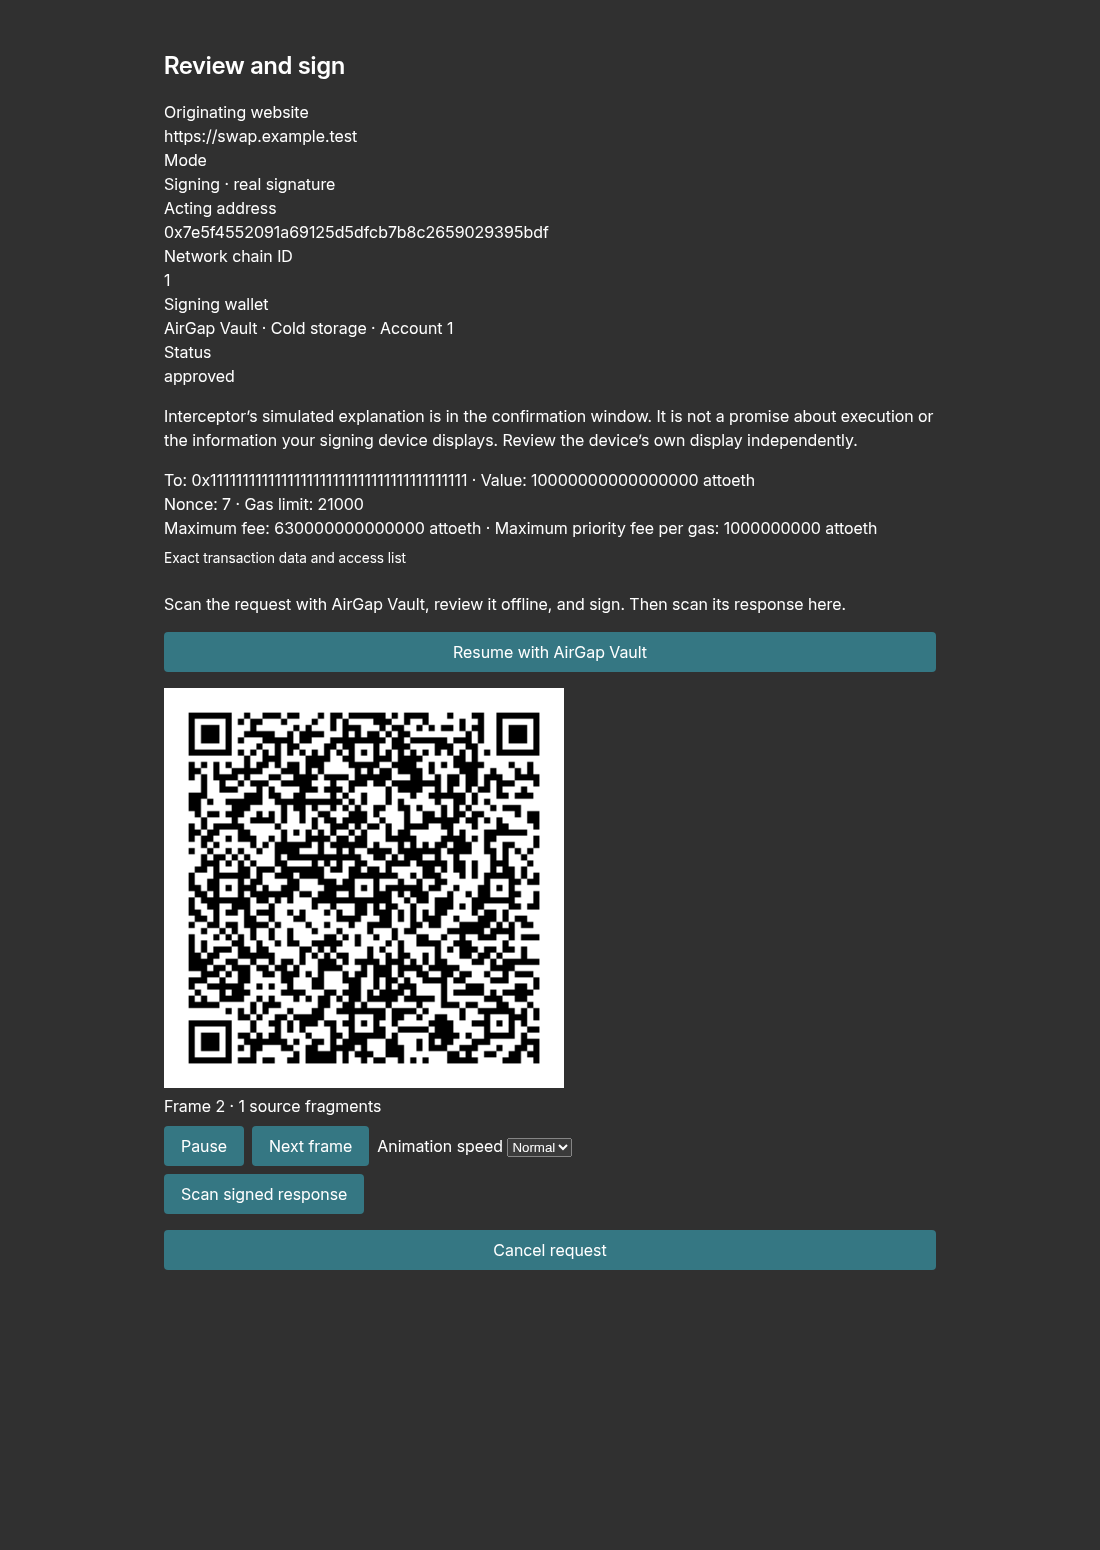
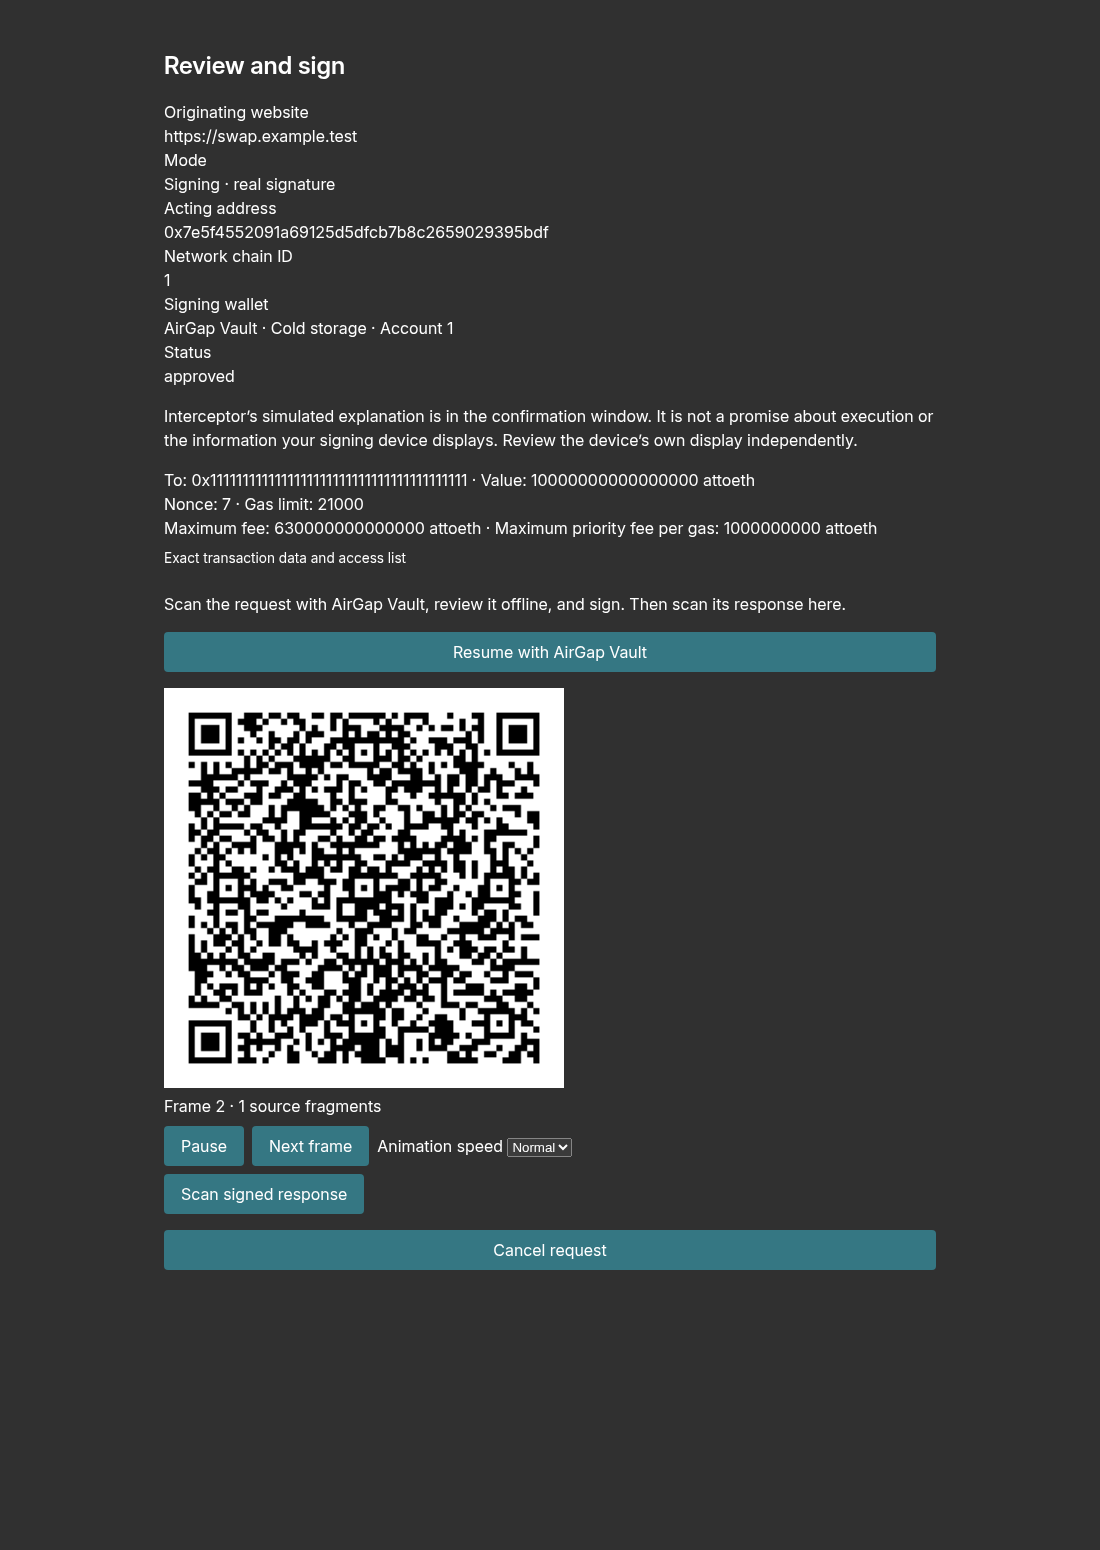
Distinguish recovered message signatures from transactions

Changed region(s): [[0.1545, 0.4645, 0.4018, 0.6813], [0.3709, 0.6194, 0.4018, 0.6503], [0.3709, 0.5574, 0.4018, 0.5884]]

diff --git a/app/ts/directSigning.tsx b/app/ts/directSigning.tsx
@@ -43,7 +43,12 @@ function DirectSigningPage() {
 				const transaction = parseTransaction(ensureHex(next.input.data))
 				setNonce(String(transaction.nonce)); setGas(String(transaction.gas)); setMaxFee(String(transaction.maxFeePerGas)); setPriority(String(transaction.maxPriorityFeePerGas))
 			}
-			setStatus(next.phase === 'review' ? 'Review the exact payload before approving.' : next.phase === 'approved' ? 'Approval recovered. Resume this exact request or cancel it.' : next.phase === 'signed' ? 'Signature recovered. Review the transaction before broadcasting.' : `Recovered request status: ${ next.phase }.`)
+			if (next.phase === 'review') setStatus('Review the exact payload before approving.')
+			else if (next.phase === 'approved') setStatus('Approval recovered. Resume this exact request or cancel it.')
+			else if (next.phase === 'signed') setStatus(next.input.method === 'eth_sendTransaction'
+				? 'Signature recovered. Review the transaction before broadcasting.'
+				: 'Message signature recovered and returned to the originating application.')
+			else setStatus(`Recovered request status: ${ next.phase }.`)
 		})
 		return () => controller.current.abort(new Error('Signing page closed'))
 	}, [])
